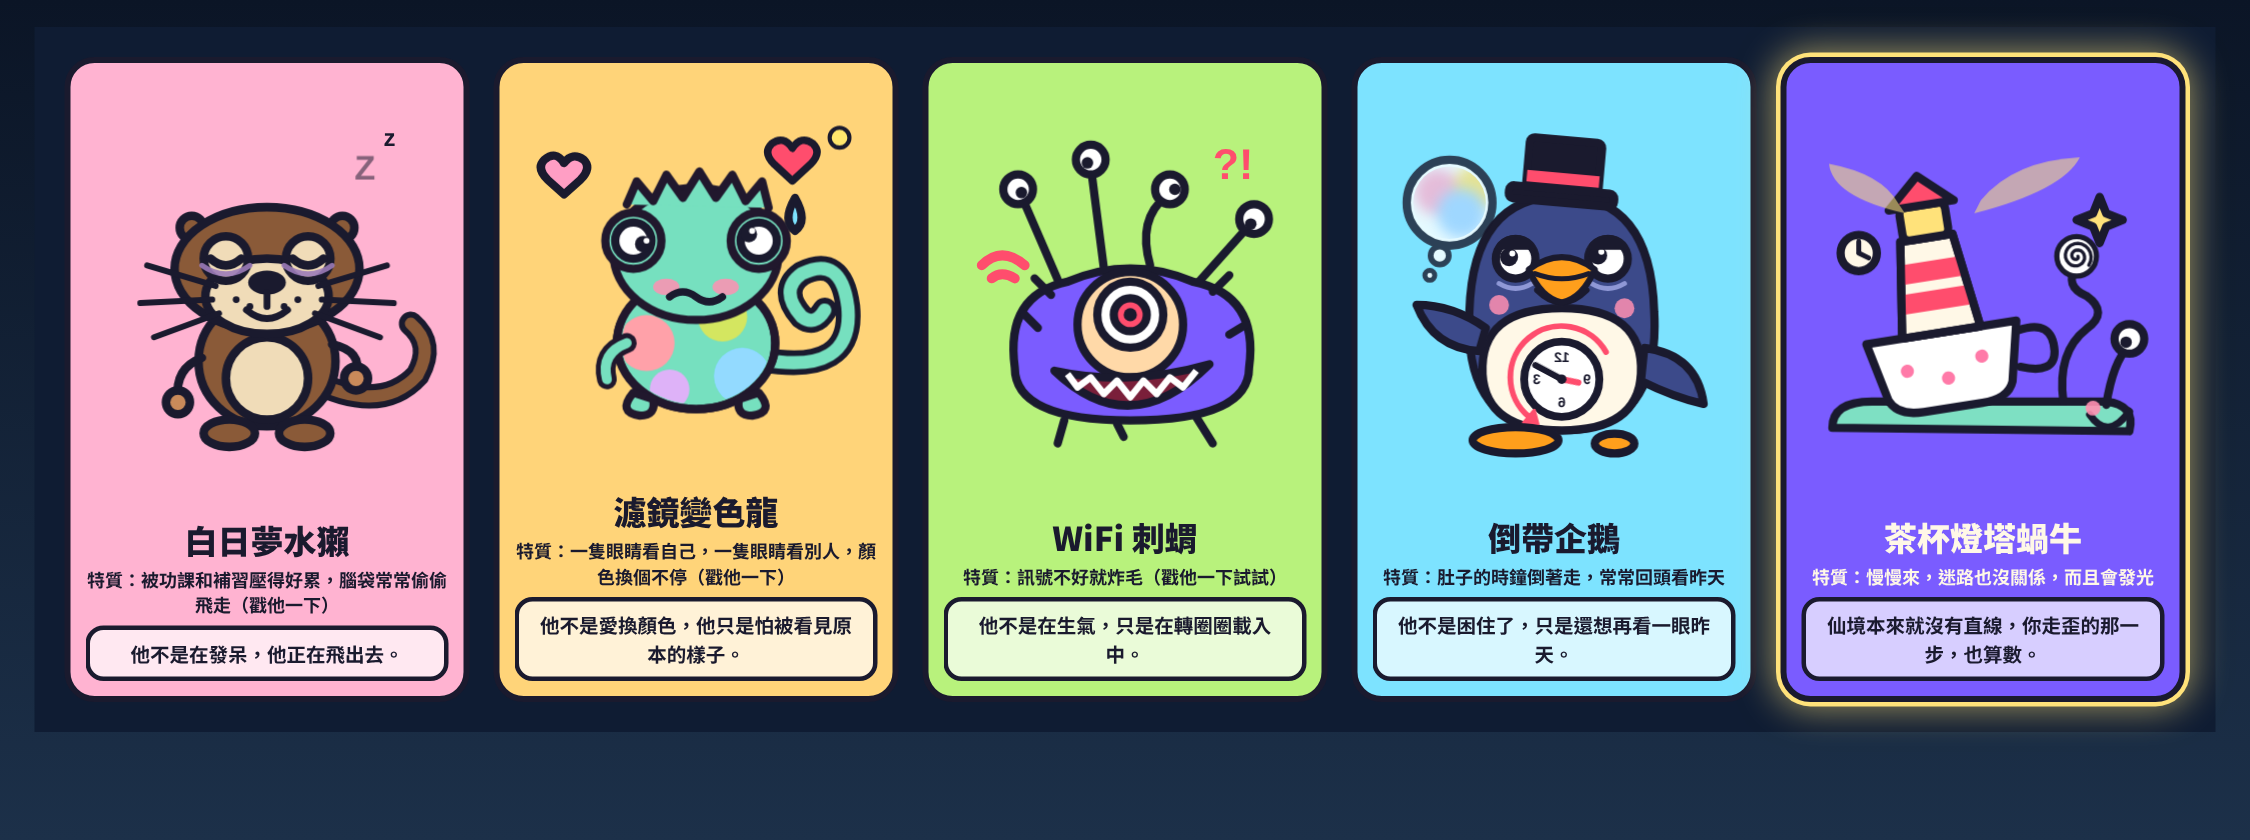
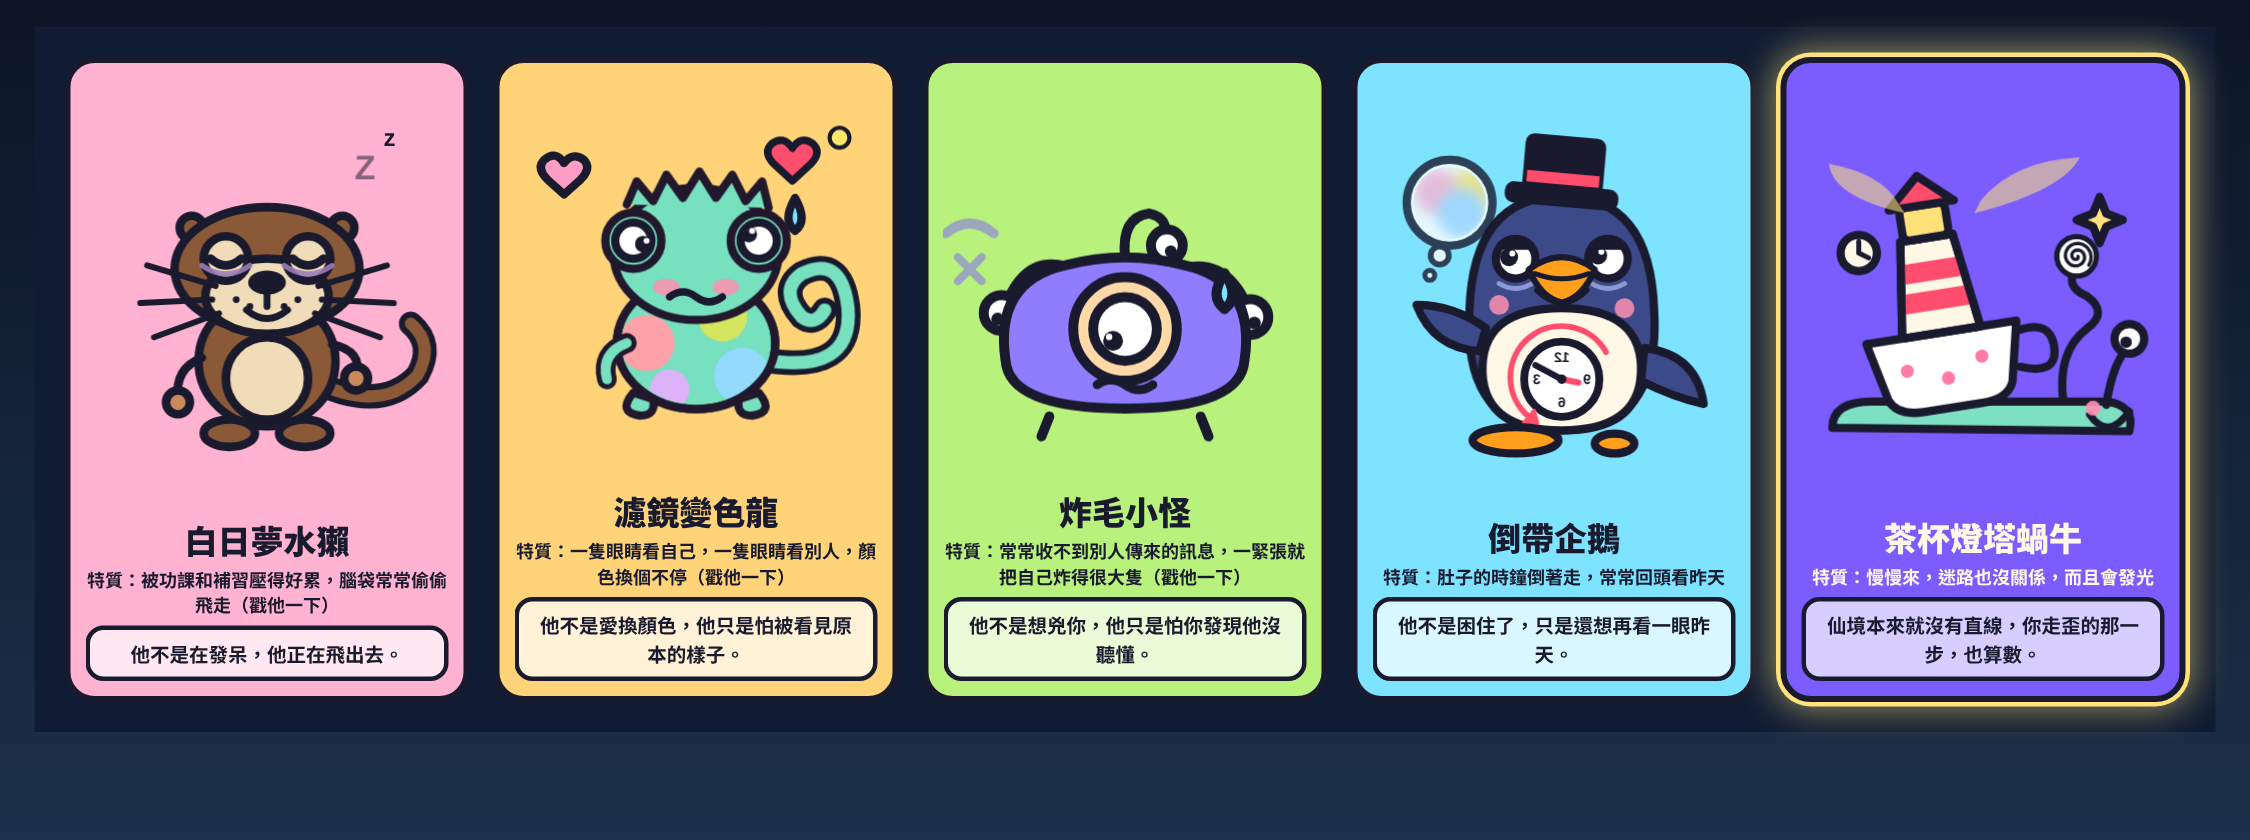
Lighthouse: 抽牌小樣本，刺蝟重設為「炸毛小怪」（平常自卑、點一下炸毛裝兇）
Claude-Session: https://claude.ai/code/session_01QMXbFy7GatcecM2zJaJAS8

Changed region(s): [[0.4044, 0.1548, 0.5911, 0.5262], [0.4044, 0.5881, 0.5911, 0.8048]]

diff --git a/lighthouse/cards-sample.html b/lighthouse/cards-sample.html
@@ -67,13 +67,14 @@ h1{font-size:20px;margin:6px 0 2px;letter-spacing:.08em}
 @keyframes blink{0%,94%,100%{transform:scaleY(1)}97%{transform:scaleY(.1)}}
 .zz{animation:zz 2s ease-in-out infinite}
 @keyframes zz{0%{opacity:0;transform:translate(0,6px)}50%{opacity:1}100%{opacity:0;transform:translate(8px,-10px)}}
-.ants{transform-origin:100px 118px;transform-box:view-box}
-.fluff .ants{animation:fluff .18s linear 7}
+.angryG{display:none}
+.fluff .angryG{display:inline}
+.fluff .calmG{display:none}
+.fluff .wob{animation:puff 1.4s ease-out 1}
+.fluff .angryG .trem{animation:flick .1s steps(2) 14}
 .fluff .wifi{animation:flick .18s steps(2) 7}
-.fluff .wob{animation:puff 1.3s ease-out 1}
-@keyframes fluff{0%{transform:rotate(-6deg) scale(1.04)}50%{transform:rotate(6deg) scale(1.08)}100%{transform:rotate(-6deg) scale(1.04)}}
-@keyframes flick{50%{opacity:0}}
-@keyframes puff{0%,100%{transform:scale(1)}20%{transform:scale(1.12,.9)}}
+@keyframes flick{50%{transform:translate(1.5px,0);opacity:.35}}
+@keyframes puff{0%{transform:scale(.8)}25%{transform:scale(1.12)}100%{transform:scale(1)}}
 .awakeE,.oops{display:none}
 .woke .awakeE,.woke .oops{display:inline}
 .woke .sleepE,.woke .zz{display:none}
@@ -167,24 +168,33 @@ const ART = {
     <g class="pops"><path d="M176 26 q-6 -9 -14 -3 q-6 6 2 14 l12 11 l12 -11 q8 -8 2 -14 q-8 -6 -14 3z" fill="#ff4d6d" ${o} transform="translate(0 0) scale(.9)"/><circle cx="187" cy="17" r="6" fill="#ffe66d" stroke="${INK}" stroke-width="2.5"/></g>
     <g class="pops2"><path d="M20 36 q-5 -8 -12 -2 q-5 5 2 12 l10 9 l10 -9 q7 -7 2 -12 q-7 -5 -12 2z" fill="#ff9ec4" ${o}/></g>
     </svg>`,
-  /* 轉圈圈小怪（原刺蝟）：刺是長眼睛的天線，一隻超大眼，嘴巴開到耳朵 */
-  hedgehog: `<svg viewBox="-13.2 -10.1 220 220"><g class="wob"><g class="ants">
-    <path d="M60 100 L34 40" stroke="${INK}" stroke-width="5" stroke-linecap="round"/><circle cx="32" cy="36" r="9" fill="#fff" ${o}/><circle cx="34" cy="38" r="3.5" fill="${INK}"/>
-    <path d="M84 84 L76 22" stroke="${INK}" stroke-width="5" stroke-linecap="round"/><circle cx="76" cy="18" r="9" fill="#fff" ${o}/><circle cx="74" cy="20" r="3.5" fill="${INK}"/>
-    <path d="M112 82 Q104 54 122 40" fill="none" stroke="${INK}" stroke-width="5" stroke-linecap="round"/><circle cx="124" cy="36" r="9" fill="#fff" ${o}/><circle cx="127" cy="36" r="3.5" fill="${INK}"/>
-    <path d="M138 96 L172 58" stroke="${INK}" stroke-width="5" stroke-linecap="round"/><circle cx="175" cy="54" r="9" fill="#fff" ${o}/><circle cx="173" cy="57" r="3.5" fill="${INK}"/>
+  /* 炸毛小怪：功課不好、常收不到別人傳來的訊息，有點自卑；一緊張就把自己炸得很大隻（保護色） */
+  hedgehog: `<svg viewBox="-14 -10 228 220"><g class="wob">
+    <g class="calmG" transform="translate(100 182) scale(1.25) translate(-100 -182)">
+      <path d="M78 112 Q52 98 40 128" fill="none" stroke="${INK}" stroke-width="5" stroke-linecap="round"/><circle cx="38" cy="132" r="9" fill="#fff" ${o}/><circle cx="36" cy="135" r="3.2" fill="${INK}"/>
+      <path d="M122 112 Q150 100 162 130" fill="none" stroke="${INK}" stroke-width="5" stroke-linecap="round"/><circle cx="163" cy="134" r="9" fill="#fff" ${o}/><circle cx="165" cy="137" r="3.2" fill="${INK}"/>
+      <path d="M100 104 Q98 84 112 82 Q122 84 120 94" fill="none" stroke="${INK}" stroke-width="5" stroke-linecap="round"/><circle cx="121" cy="98" r="8" fill="#fff" ${o}/><circle cx="123" cy="101" r="3" fill="${INK}"/>
+      <path d="M40 156 Q34 116 70 108 Q100 100 130 108 Q166 116 160 156 Q158 180 100 180 Q42 180 40 156Z" fill="#8f7dff" ${o}/>
+      <circle cx="100" cy="140" r="26" fill="#ffd9a8" ${o}/><circle cx="100" cy="140" r="16" fill="#fff" ${o}/><circle cx="94" cy="146" r="5" fill="${INK}"/><circle cx="92" cy="144" r="1.6" fill="#fff"/>
+      <path d="M86 168 Q93 163 100 168 Q107 173 114 168" fill="none" stroke="${INK}" stroke-width="4.5" stroke-linecap="round" stroke-linejoin="round"/>
+      <path d="M62 184 L58 194 M138 184 L142 194" stroke="${INK}" stroke-width="5" stroke-linecap="round"/>
+      <path d="M150 112 Q158 124 150 130 Q142 124 150 112Z" fill="#7de3ff" ${o}/>
+      <g fill="none" stroke="#9aa7bd" stroke-width="5" stroke-linecap="round"><path d="M10 92 Q22 82 34 92"/></g><path d="M16 104 L28 116 M28 104 L16 116" stroke="#9aa7bd" stroke-width="4" stroke-linecap="round"/>
     </g>
-    <path d="M30 144 Q24 100 62 92 Q100 76 138 92 Q178 100 172 144 Q172 176 100 176 Q30 176 30 144Z" fill="#7b5cff" ${o}/>
-    <path d="M44 120 L36 112 M52 100 L42 90 M150 98 L160 88 M160 124 L170 118" stroke="${INK}" stroke-width="5" stroke-linecap="round"/>
-    <circle cx="100" cy="118" r="32" fill="#ffd9a8" ${o}/>
-    <circle cx="100" cy="112" r="20" fill="#fff" ${o}/>
-    <circle cx="100" cy="112" r="10" fill="#ff4d6d" ${o}/><circle cx="100" cy="112" r="4" fill="${INK}"/>
-    <path d="M54 146 Q100 190 148 142 Q100 156 54 146Z" fill="#7a1f3a" ${o}/>
-    <path d="M62 148 L68 156 L76 150 L84 160 L92 152 L100 162 L108 152 L116 160 L124 150 L132 156 L140 146" fill="none" stroke="#fff" stroke-width="4" stroke-linejoin="round"/>
-    <path d="M60 176 L56 190 M92 178 L96 186 M140 174 L150 190" stroke="${INK}" stroke-width="5" stroke-linecap="round"/>
+    <g class="angryG">
+      <path d="M68 96 L42 40" stroke="${INK}" stroke-width="5" stroke-linecap="round"/><circle cx="40" cy="36" r="9" fill="#fff" ${o}/><circle cx="40" cy="36" r="2.6" fill="${INK}"/>
+      <path d="M96 84 L90 22" stroke="${INK}" stroke-width="5" stroke-linecap="round"/><circle cx="90" cy="18" r="9" fill="#fff" ${o}/><circle cx="90" cy="18" r="2.6" fill="${INK}"/>
+      <path d="M126 86 L140 26" stroke="${INK}" stroke-width="5" stroke-linecap="round"/><circle cx="141" cy="22" r="9" fill="#fff" ${o}/><circle cx="141" cy="22" r="2.6" fill="${INK}"/>
+      <path d="M150 100 L186 56" stroke="${INK}" stroke-width="5" stroke-linecap="round"/><circle cx="189" cy="52" r="9" fill="#fff" ${o}/><circle cx="189" cy="52" r="2.6" fill="${INK}"/>
+      <path d="M100.0 83.2 L107.1 97.4 L118.6 85.5 L120.8 100.9 L135.7 92.3 L132.7 107.5 L149.9 102.8 L142.1 116.8 L160.0 116.4 L148.0 127.9 L165.3 131.9 L150.0 140.0 L165.3 148.1 L148.0 152.1 L160.0 163.6 L142.1 163.2 L149.9 177.2 L132.7 172.5 L135.7 187.7 L120.8 179.1 L118.6 194.5 L107.1 182.6 L100.0 196.8 L92.9 182.6 L81.4 194.5 L79.2 179.1 L64.3 187.7 L67.3 172.5 L50.1 177.2 L57.9 163.2 L40.0 163.6 L52.0 152.1 L34.7 148.1 L50.0 140.0 L34.7 131.9 L52.0 127.9 L40.0 116.4 L57.9 116.8 L50.1 102.8 L67.3 107.5 L64.3 92.3 L79.2 100.9 L81.4 85.5 L92.9 97.4Z" fill="#ff7a5c" stroke="${INK}" stroke-width="5" stroke-linejoin="round"/>
+      <circle cx="100" cy="132" r="28" fill="#ffd9a8" ${o}/><circle cx="100" cy="132" r="17" fill="#fff" ${o}/><circle cx="100" cy="132" r="2.8" fill="${INK}" class="trem"/>
+      <path d="M62 100 L92 114 M138 100 L108 114" stroke="${INK}" stroke-width="7" stroke-linecap="round"/>
+      <path d="M62 160 Q100 192 138 160 Q100 170 62 160Z" fill="#7a1f3a" ${o}/><path d="M72 163 L78 168 L84 163 L90 169 L96 163 L102 169 L108 163 L114 169 L120 163 L126 168 L132 162" fill="none" stroke="#fff" stroke-width="4" stroke-linejoin="round"/>
+      <path d="M156 100 Q164 114 156 120 Q148 114 156 100Z" fill="#7de3ff" ${o}/>
+      <g class="wifi" fill="none" stroke="#fff" stroke-width="6" stroke-linecap="round"><path d="M0 70 Q14 54 30 70"/><path d="M8 78 Q14 72 22 78"/></g>
     </g>
-    <g class="wifi" fill="none" stroke="#ff4d6d" stroke-width="6" stroke-linecap="round"><path d="M10 82 Q22 70 36 82"/><path d="M16 90 Q22 85 30 90"/></g>
-    <text x="150" y="30" font-size="26" font-weight="900" fill="#ff4d6d" font-family="sans-serif">?!</text></svg>`,
+    </g>
+    <text class="angryG" x="164" y="96" font-size="30" font-weight="900" fill="#ff4d6d" font-family="sans-serif">!!</text></svg>`,
   /* 倒帶企鵝：肚子的時鐘倒著走，總是回頭看昨天 */
   penguin: `<svg viewBox="-14.7 -20.2 220 220"><g class="wob">
     <path d="M100 30 Q154 30 156 100 Q160 172 100 172 Q40 172 44 100 Q46 30 100 30Z" fill="#3c4a8a" ${o}/>
@@ -240,7 +250,7 @@ const ART = {
 const CARDS = [
   {id:"otter",   name:"白日夢水獺",   trait:"特質：被功課和補習壓得好累，腦袋常常偷偷飛走（戳他一下）", say:"他不是在發呆，他正在飛出去。", bg:"#ffb3d1", rare:0},
   {id:"chameleon",name:"濾鏡變色龍", trait:"特質：一隻眼睛看自己，一隻眼睛看別人，顏色換個不停（戳他一下）", say:"他不是愛換顏色，他只是怕被看見原本的樣子。", bg:"#ffd479", rare:0},
-  {id:"hedgehog",name:"轉圈圈小怪", trait:"特質：訊號不好就炸毛（戳他一下試試）", say:"他不是在生氣，只是在轉圈圈載入中。", bg:"#b8f27c", rare:0},
+  {id:"hedgehog",name:"炸毛小怪", trait:"特質：常常收不到別人傳來的訊息，一緊張就把自己炸得很大隻（戳他一下）", say:"他不是想兇你，他只是怕你發現他沒聽懂。", bg:"#b8f27c", rare:0},
   {id:"penguin", name:"倒帶企鵝",   trait:"特質：肚子的時鐘倒著走，常常回頭看昨天", say:"他不是困住了，只是還想再看一眼昨天。", bg:"#7de3ff", rare:0},
   {id:"snail",   name:"茶杯燈塔蝸牛", trait:"特質：慢慢來，迷路也沒關係，而且會發光", say:"仙境本來就沒有直線，你走歪的那一步，也算數。", bg:"#7a5cff", rare:1}
 ];
